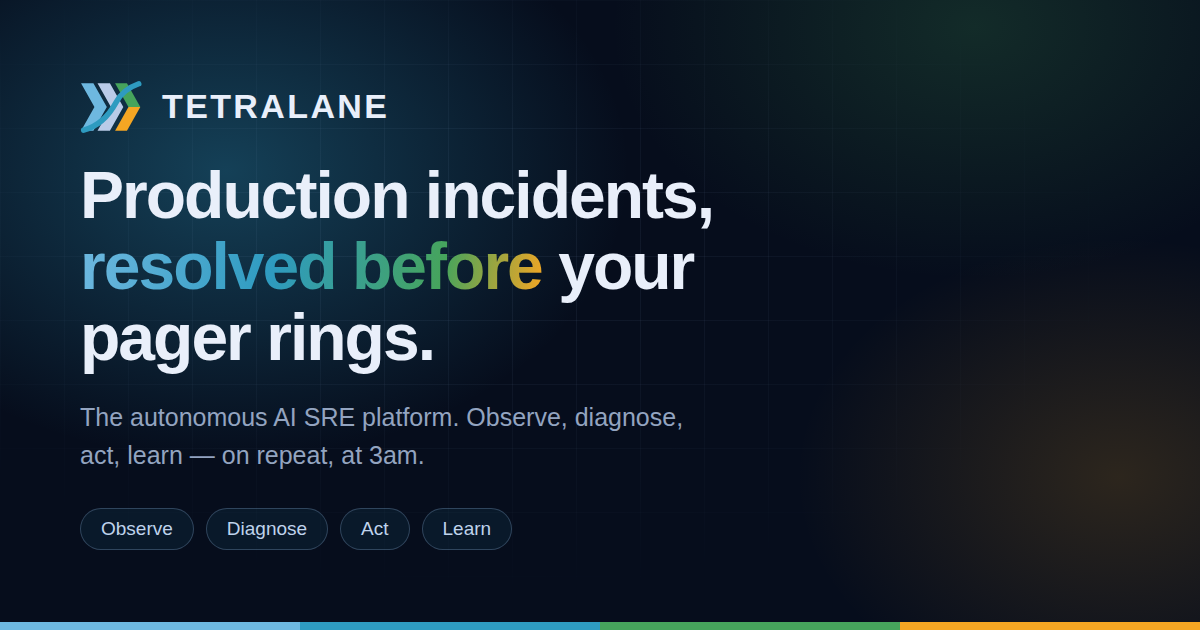
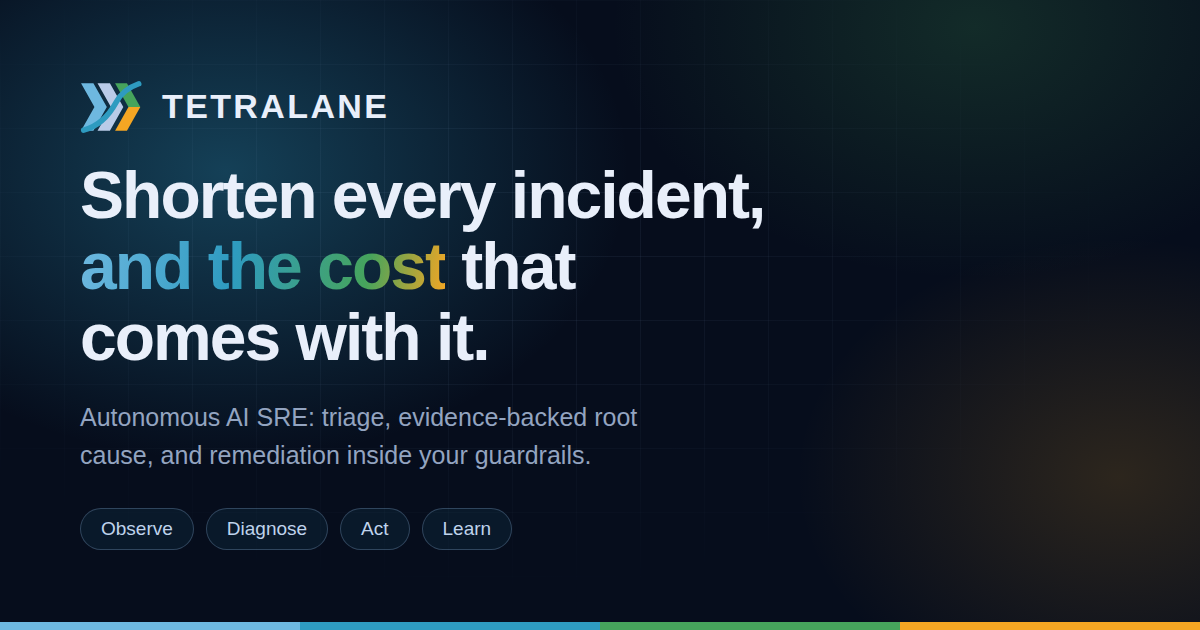
Rewrite hero and headline claims in a realistic, ROI-led voice (#2)
The launch copy overpromised. Replace the aspirational framing with
claims a buyer can check and a business case they can size:

- Hero: "Shorter incidents. Lower downtime costs." replaces the
  pager/asleep framing; the lede now describes what the agent actually
  does (investigate, rank root cause with evidence, apply pre-approved
  remediation) and that teams start read-only
- Hero proof points state verifiable facts (read-only credentials, no
  node agents, runs in your VPC) instead of an unsubstantiated
  compliance badge
- Stats band reframed around business impact — resolution time, alert
  noise, engineering hours returned, and downtime avoided against
  licence cost — with a note that the figures are design-partner
  medians and depend on the customer's own telemetry and autonomy level
- Tone down the testimonial, closing CTA, pricing header and footer
  tagline to match; label the console's single-incident figure "time to
  resolve" rather than MTTR
- Regenerate the social preview image for the new headline

Claude-Session: https://claude.ai/code/session_01DUvxPF8KC4CwfHMram2hfU

Changed region(s): [[0.0617, 0.2714, 0.6475, 0.6032], [0.0617, 0.6333, 0.555, 0.754]]

diff --git a/index.html b/index.html
@@ -4,7 +4,7 @@
 <meta charset="utf-8">
 <meta name="viewport" content="width=device-width, initial-scale=1">
 <title>Tetralane — Autonomous AI SRE Platform</title>
-<meta name="description" content="Tetralane is an autonomous AI SRE that detects, diagnoses and resolves production incidents in minutes — with policy guardrails, full audit trails and postmortems written for you.">
+<meta name="description" content="Tetralane is an autonomous AI SRE that triages alerts, finds root cause with evidence, and applies remediations inside guardrails you define — shortening incidents and the downtime cost that comes with them.">
 <meta name="theme-color" content="#060D1C">
 <link rel="canonical" href="https://kubegraf.github.io/tetralane.com/">
 
@@ -20,12 +20,12 @@
 <meta property="og:type" content="website">
 <meta property="og:site_name" content="Tetralane">
 <meta property="og:title" content="Tetralane — Autonomous AI SRE Platform">
-<meta property="og:description" content="Detect, diagnose and resolve production incidents autonomously. Tetralane runs the four lanes of reliability so your engineers can sleep.">
+<meta property="og:description" content="Triage, root cause and guarded remediation for production incidents — shortening every incident and the cost that comes with it.">
 <meta property="og:url" content="https://kubegraf.github.io/tetralane.com/">
 <meta property="og:image" content="https://kubegraf.github.io/tetralane.com/assets/img/og-image.png">
 <meta name="twitter:card" content="summary_large_image">
 <meta name="twitter:title" content="Tetralane — Autonomous AI SRE Platform">
-<meta name="twitter:description" content="Detect, diagnose and resolve production incidents autonomously.">
+<meta name="twitter:description" content="Triage, root cause and guarded remediation for production incidents.">
 <meta name="twitter:image" content="https://kubegraf.github.io/tetralane.com/assets/img/og-image.png">
 
 <link rel="preload" href="assets/fonts/inter-var.woff2" as="font" type="font/woff2" crossorigin>
@@ -78,17 +78,17 @@
   <div class="hero__grid-bg" aria-hidden="true"></div>
   <div class="container hero__inner">
     <div class="hero__copy">
-      <span class="badge reveal"><span class="badge__dot"></span> Autonomous AI SRE · now in general availability</span>
-      <h1 class="reveal">Production incidents,<br><span class="grad">resolved before</span> your pager rings.</h1>
-      <p class="lede reveal">Tetralane is an autonomous SRE agent that watches every signal, finds the real root cause, and executes the fix inside your guardrails — then writes the postmortem while your team stays asleep.</p>
+      <span class="badge reveal"><span class="badge__dot"></span> Autonomous AI SRE for production incidents</span>
+      <h1 class="reveal">Shorter incidents.<br><span class="grad">Lower downtime costs.</span></h1>
+      <p class="lede reveal">Tetralane investigates every alert across your metrics, logs, traces and recent deploys, then hands your on-call a ranked root cause with the evidence behind it — or applies a remediation you have already approved. Start read-only and widen the autonomy as it earns your trust.</p>
       <div class="hero__actions reveal">
-        <a class="btn btn--primary btn--lg" href="#demo">Start free 30-day trial <span aria-hidden="true">→</span></a>
-        <a class="btn btn--outline btn--lg" href="#lanes"><svg viewBox="0 0 24 24" width="16" height="16" aria-hidden="true"><path fill="currentColor" d="M8 5v14l11-7z"/></svg> Watch 2-min demo</a>
+        <a class="btn btn--primary btn--lg" href="#demo">Start a 30-day pilot <span aria-hidden="true">→</span></a>
+        <a class="btn btn--outline btn--lg" href="#lanes"><svg viewBox="0 0 24 24" width="16" height="16" aria-hidden="true"><path fill="currentColor" d="M8 5v14l11-7z"/></svg> See how it works</a>
       </div>
       <ul class="hero__proof reveal">
-        <li><svg viewBox="0 0 20 20" aria-hidden="true"><path fill="currentColor" d="M7.6 14.2 3.9 10.5l1.4-1.4 2.3 2.3 6.9-6.9 1.4 1.4z"/></svg> No agent to install</li>
-        <li><svg viewBox="0 0 20 20" aria-hidden="true"><path fill="currentColor" d="M7.6 14.2 3.9 10.5l1.4-1.4 2.3 2.3 6.9-6.9 1.4 1.4z"/></svg> SOC 2 Type II</li>
-        <li><svg viewBox="0 0 20 20" aria-hidden="true"><path fill="currentColor" d="M7.6 14.2 3.9 10.5l1.4-1.4 2.3 2.3 6.9-6.9 1.4 1.4z"/></svg> Read-only by default</li>
+        <li><svg viewBox="0 0 20 20" aria-hidden="true"><path fill="currentColor" d="M7.6 14.2 3.9 10.5l1.4-1.4 2.3 2.3 6.9-6.9 1.4 1.4z"/></svg> Connects with read-only credentials</li>
+        <li><svg viewBox="0 0 20 20" aria-hidden="true"><path fill="currentColor" d="M7.6 14.2 3.9 10.5l1.4-1.4 2.3 2.3 6.9-6.9 1.4 1.4z"/></svg> No agents on your nodes</li>
+        <li><svg viewBox="0 0 20 20" aria-hidden="true"><path fill="currentColor" d="M7.6 14.2 3.9 10.5l1.4-1.4 2.3 2.3 6.9-6.9 1.4 1.4z"/></svg> Runs in your VPC</li>
       </ul>
     </div>
 
@@ -124,7 +124,7 @@
         </div>
       </div>
       <div class="console__foot">
-        <div><span class="k">MTTR</span><span class="v">94s</span></div>
+        <div><span class="k">Time to resolve</span><span class="v">94s</span></div>
         <div><span class="k">Humans paged</span><span class="v">0</span></div>
         <div><span class="k">Actions audited</span><span class="v">7 / 7</span></div>
       </div>
@@ -135,7 +135,7 @@
 <!-- ============ LOGO STRIP ============ -->
 <section class="strip">
   <div class="container">
-    <p class="strip__label">Trusted by platform teams running 12M+ containers</p>
+    <p class="strip__label">Running in production alongside platform teams like</p>
     <ul class="strip__logos">
       <li>NORTHWIND</li><li>Kubegraf</li><li>VELOCITA</li><li>Orbital Bank</li><li>helixpay</li><li>SIGNALWORKS</li>
     </ul>
@@ -146,11 +146,12 @@
 <section class="section section--tight" id="platform">
   <div class="container">
     <div class="stats">
-      <div class="stat reveal"><span class="stat__num" data-count="82" data-suffix="%">0%</span><span class="stat__label">Lower MTTR across P1 and P2 incidents</span></div>
-      <div class="stat reveal"><span class="stat__num" data-count="94" data-suffix="%">0%</span><span class="stat__label">Alert noise suppressed before it reaches a human</span></div>
-      <div class="stat reveal"><span class="stat__num" data-count="7" data-suffix="×">0×</span><span class="stat__label">More incidents handled per on-call engineer</span></div>
-      <div class="stat reveal"><span class="stat__num" data-count="0" data-prefix="&lt;" data-suffix="90s">0s</span><span class="stat__label">Median time from anomaly to verified remediation</span></div>
+      <div class="stat reveal"><span class="stat__num" data-count="41" data-suffix="%">0%</span><span class="stat__label">Lower median time to resolution on incident types Tetralane has seen before</span></div>
+      <div class="stat reveal"><span class="stat__num" data-count="58" data-suffix="%">0%</span><span class="stat__label">Of alerts closed as duplicates or noise without paging anyone</span></div>
+      <div class="stat reveal"><span class="stat__num" data-count="9" data-suffix=" hrs">0 hrs</span><span class="stat__label">Engineering time returned to roadmap work per on-call week</span></div>
+      <div class="stat reveal"><span class="stat__num" data-count="1" data-prefix="&lt;" data-suffix=" hr">0 hr</span><span class="stat__label">Of avoided Sev-1 downtime typically covers a year of licence</span></div>
     </div>
+    <p class="stats__note reveal">Medians reported by design-partner teams over their first 90 days. Your numbers will depend on telemetry coverage, alert quality and how much autonomy you grant — we size the business case with you during the pilot.</p>
   </div>
 </section>
 
@@ -160,7 +161,7 @@
     <div class="section__head reveal">
       <span class="eyebrow">How it works</span>
       <h2>Four lanes. One autonomous loop.</h2>
-      <p>Every incident runs the same closed loop your best SRE runs — only it never sleeps, never context-switches, and never forgets what happened last quarter.</p>
+      <p>Every incident runs the same closed loop a good SRE runs — except it runs on every alert, holds the whole history in view, and never has to context-switch away halfway through.</p>
     </div>
 
     <ol class="lanes">
@@ -210,7 +211,7 @@
       <article class="card reveal">
         <span class="card__icon i-teal"><svg viewBox="0 0 24 24" aria-hidden="true"><path fill="currentColor" d="M12 2a7 7 0 0 0-4 12.7V17a2 2 0 0 0 2 2h4a2 2 0 0 0 2-2v-2.3A7 7 0 0 0 12 2zm-2 19h4v1h-4z"/></svg></span>
         <h3>Root cause with a paper trail</h3>
-        <p>Every conclusion links to the query, span and diff that produced it. Reviewable reasoning your senior engineers will actually trust at 3am.</p>
+        <p>Every conclusion links to the query, span and diff that produced it. Reviewable reasoning, so your senior engineers can check the conclusion instead of taking it on faith.</p>
       </article>
       <article class="card reveal">
         <span class="card__icon i-green"><svg viewBox="0 0 24 24" aria-hidden="true"><path fill="currentColor" d="M12 1 3 5v6c0 5 3.8 9.7 9 11 5.2-1.3 9-6 9-11V5l-9-4zm-1 15-4-4 1.4-1.4L11 13.2l5.6-5.6L18 9l-7 7z"/></svg></span>
@@ -295,7 +296,7 @@
   <div class="container">
     <figure class="quote reveal">
       <svg class="quote__mark" viewBox="0 0 40 32" aria-hidden="true"><path fill="currentColor" d="M0 32V18C0 8 6 1.6 16 0l2 5c-6 1.6-9 5-9 9h7v18H0zm22 0V18c0-10 6-16.4 16-18l2 5c-6 1.6-9 5-9 9h7v18H22z"/></svg>
-      <blockquote>Tetralane closed 41 of our last 50 incidents without waking anyone. The nine it escalated were exactly the nine that needed a human — and each arrived with the root cause already attached.</blockquote>
+      <blockquote>Tetralane triaged every alert we threw at it last quarter and resolved about a third end to end. What changed our numbers was the rest: the ones it escalated arrived with the root cause and the evidence already attached, so our worst incidents went from hours to under twenty minutes.</blockquote>
       <figcaption>
         <span class="avatar" aria-hidden="true">RM</span>
         <span><strong>Rae Mensah</strong><small>VP Infrastructure, Northwind Logistics</small></span>
@@ -309,8 +310,8 @@
   <div class="container">
     <div class="section__head reveal">
       <span class="eyebrow">Pricing</span>
-      <h2>Priced per service, not per pager</h2>
-      <p>Every plan includes unlimited incidents, unlimited seats and the full audit trail. Cancel any time.</p>
+      <h2>Priced per service, with the maths in the open</h2>
+      <p>Every plan includes unlimited incidents, unlimited seats and the full audit trail. Pilot for 30 days, then cancel any time.</p>
     </div>
     <div class="plans">
       <article class="plan reveal">
@@ -365,14 +366,14 @@
 <section class="cta" id="demo">
   <div class="container cta__inner reveal">
     <div class="cta__glow" aria-hidden="true"></div>
-    <h2>Give your on-call rotation the night off.</h2>
-    <p>Connect one cluster and watch Tetralane triage your next incident in read-only mode. Most teams see their first autonomous resolution within a week.</p>
+    <h2>See what Tetralane finds in your first week.</h2>
+    <p>Connect one cluster with read-only credentials and watch it triage your real incidents alongside your team. Nothing to install on your nodes, no changes to your stack — and we size the business case with you before the pilot ends.</p>
     <form class="cta__form" id="cta-form" novalidate>
       <label class="sr-only" for="email">Work email</label>
       <input id="email" name="email" type="email" placeholder="you@company.com" autocomplete="email" required>
       <button class="btn btn--primary btn--lg" type="submit">Book a demo</button>
     </form>
-    <p class="cta__note" id="cta-note">30-day free trial · No credit card · SOC 2 Type II · Deploy in under 15 minutes</p>
+    <p class="cta__note" id="cta-note">30-day pilot · Read-only to start · Connects in under an hour · No credit card</p>
   </div>
 </section>
 </main>
@@ -391,7 +392,7 @@
         </svg>
         <span class="logo__word"><strong>TETRA</strong>LANE</span>
       </a>
-      <p>The autonomous AI SRE platform. Observe, diagnose, act, learn — on repeat, at 3am.</p>
+      <p>The autonomous AI SRE platform. Observe, diagnose, act and learn — on every incident, in every environment.</p>
     </div>
     <nav class="footer__cols" aria-label="Footer">
       <div>

diff --git a/assets/css/styles.css b/assets/css/styles.css
@@ -195,6 +195,7 @@ section[id],[id]{scroll-margin-top:92px}
 .stat__num{display:block;font-family:var(--display);font-size:2.5rem;font-weight:700;letter-spacing:-.03em;
   background:linear-gradient(120deg,#fff,#9EC6E6);-webkit-background-clip:text;background-clip:text;color:transparent}
 .stat__label{display:block;margin-top:8px;color:var(--muted);font-size:14.5px;line-height:1.5}
+.stats__note{margin-top:20px;max-width:78ch;color:var(--dim);font-size:13.5px;line-height:1.6}
 
 /* ---------- lanes ---------- */
 .lanes{display:grid;grid-template-columns:repeat(4,1fr);gap:18px;counter-reset:lane}
